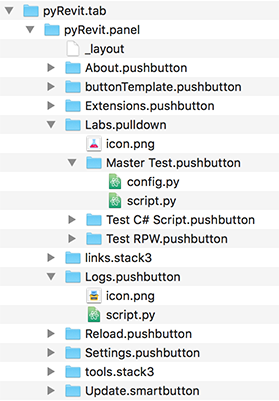
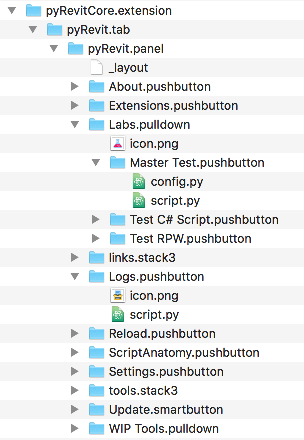
More images and updates

diff --git a/_site/howtoaddscriptsandtabs/index.html b/_site/howtoaddscriptsandtabs/index.html
@@ -100,8 +100,36 @@ Because pyRevit is a git repository and the real benefit of that is that you can
 
 <p>Besides, by creating a separate extension, you’ll have all your precious scripts and tools in a safe place and away from the changes being made to the core pyRevit. They can even live somewhere on your company shared drives and be shared between your teams.</p>
 
+<h3 id="contents">Contents:</h3>
+
+<ul>
+  <li><a href="#extensions">Extensions</a></li>
+  <li><a href="#bundles">Bundles</a></li>
+  <li><a href="#library-extensions">Library Extensions</a></li>
+</ul>
+
+<p> </p>
+
 <h2 id="extensions">Extensions</h2>
 <p>Each extension is a group of tools, organized in bundles to be easily accessible through the user interface.</p>
+
+<p>Extensions are organized in a bundle with <code class="highlighter-rouge">.extension</code> postfix. Like this one:</p>
+
+<p><img src="http://eirannejad.github.io/pyRevit/images/bundle.png" alt="" /></p>
+
+<p>There are two steps that you need to follow to create your own extensions:</p>
+
+<ul>
+  <li>First, is to create a separate folder for all your custom extensions and tell pyRevit to load your extensions from this folder. This is done in the Settings window, under the Custom Extension folders section. This way your precious extensions will stay out of the pyRevit installation and are safe.</li>
+</ul>
+
+<p><img src="http://eirannejad.github.io/pyRevit/images/customextfolder.png" alt="" /></p>
+
+<ul>
+  <li>Next, create your <code class="highlighter-rouge">&lt;your extension name&gt;.extension</code> folder under the custom extensions folder. Read the sections below on how to create bundles for your commands and the user interface.</li>
+</ul>
+
+<p> </p>
 
 <h3 id="bundles">Bundles:</h3>
 <p>A bundle is a folder named in this format:</p>
@@ -330,6 +358,16 @@ PullDown C
 <span class="n">__commandclass__</span> <span class="o">=</span> <span class="s">'IronPythonConsoleCommand'</span>
 </code></pre>
 </div>
+
+<p> </p>
+
+<h2 id="library-extensions">Library Extensions</h2>
+
+<p>Library extensions are create to share IronPython modules between all extensions. They’re in essence module packages. Some users might decide to develop an IronPython library (e.g. RevitPythonWrapper) that other users can use in their tools and benefit from.</p>
+
+<p>Library extensions are identified by <code class="highlighter-rouge">.lib</code> postfix. The library extension folder address will be added to the <code class="highlighter-rouge">sys.path</code> of all the other extensions by the loader.</p>
+
+<p>You can install the RevitPythonWrapper package which is a library extension and see how it works.</p>
 
 
   </div>

diff --git a/4addingscriptsandtabs.md b/4addingscriptsandtabs.md
@@ -17,8 +17,34 @@ Because pyRevit is a git repository and the real benefit of that is that you can
 Besides, by creating a separate extension, you'll have all your precious scripts and tools in a safe place and away from the changes being made to the core pyRevit. They can even live somewhere on your company shared drives and be shared between your teams.
 
 
+### Contents:
+
+- [Extensions](#extensions)
+- [Bundles](#bundles)
+- [Library Extensions](#library-extensions)
+
+
+&nbsp;
+
+
 ## Extensions
 Each extension is a group of tools, organized in bundles to be easily accessible through the user interface.
+
+Extensions are organized in a bundle with `.extension` postfix. Like this one:
+
+![]({{ site.url }}/pyRevit/images/bundle.png)
+
+There are two steps that you need to follow to create your own extensions:
+
+- First, is to create a separate folder for all your custom extensions and tell pyRevit to load your extensions from this folder. This is done in the Settings window, under the Custom Extension folders section. This way your precious extensions will stay out of the pyRevit installation and are safe.
+
+![]({{ site.url }}/pyRevit/images/customextfolder.png)
+
+- Next, create your `<your extension name>.extension` folder under the custom extensions folder. Read the sections below on how to create bundles for your commands and the user interface.
+
+
+&nbsp;
+
 
 ### Bundles:
 A bundle is a folder named in this format:
@@ -187,7 +213,16 @@ __commandclass__ = 'IronPythonConsoleCommand'
 ```
 
 
+&nbsp;
 
+
+## Library Extensions
+
+Library extensions are create to share IronPython modules between all extensions. They're in essence module packages. Some users might decide to develop an IronPython library (e.g. RevitPythonWrapper) that other users can use in their tools and benefit from.
+
+Library extensions are identified by `.lib` postfix. The library extension folder address will be added to the `sys.path` of all the other extensions by the loader.
+
+You can install the RevitPythonWrapper package which is a library extension and see how it works.
 
 
 
